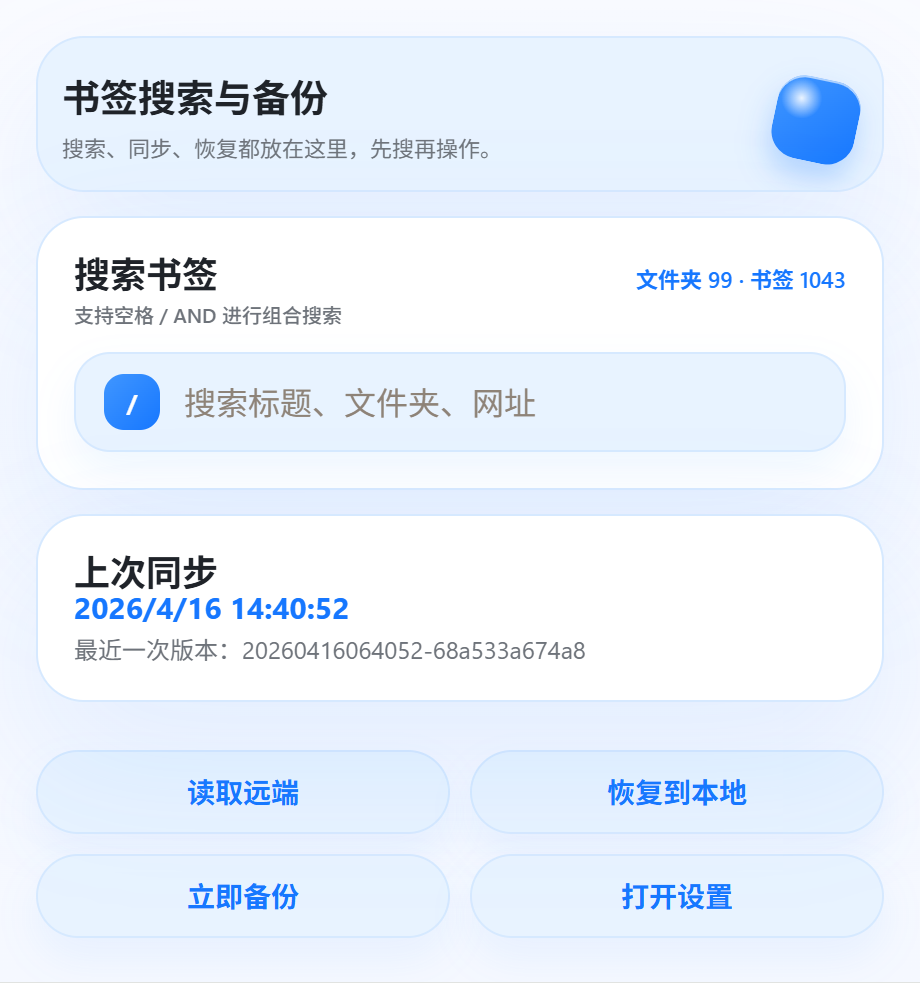
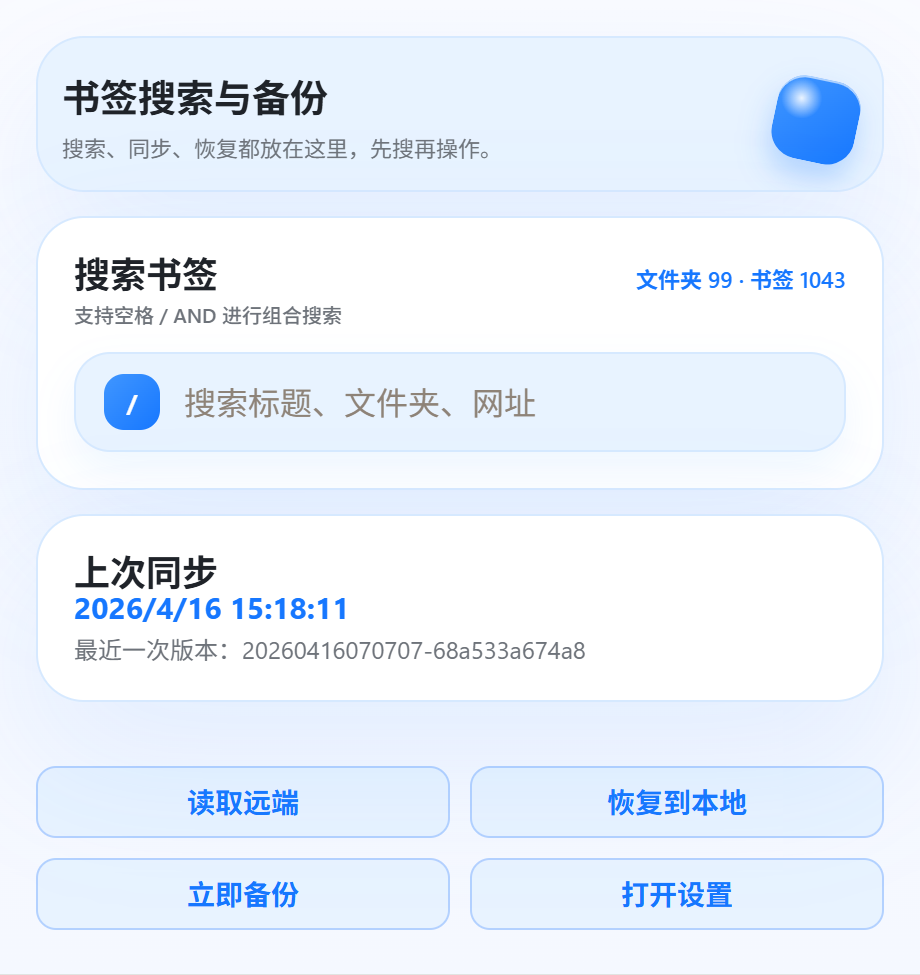
pref: 优化风格，更新图标

diff --git a/popup.css b/popup.css
@@ -309,44 +309,30 @@ body {
   display: grid;
   grid-template-columns: 1fr 1fr;
   gap: 10px;
-  margin-top: 24px;
+  margin-top: 32px;
 }
 
 button {
-  border: 0;
-  border-radius: 999px;
-  padding: 13px 16px;
+  border: 1px solid #B3D1FF;
+  border-radius: 10px;
+  padding: 10px 24px;
+  height: 36px;
   cursor: pointer;
   font: 600 14px/1 "Segoe UI", sans-serif;
-  transition: transform 140ms ease, box-shadow 140ms ease, opacity 140ms ease;
+  color: var(--accent);
+  background: #E8F3FF;
+  transition: background 140ms ease, transform 140ms ease, box-shadow 140ms ease, color 140ms ease, border-color 140ms ease;
 }
 
 button:hover {
   transform: translateY(-1px);
-}
-
-button.primary {
+  background: #348dff;
   color: white;
-  background: var(--accent-gradient);
-  box-shadow: 0 16px 24px rgba(22, 119, 255, 0.22);
+  border-color: #348dff;
 }
 
-button.ghost {
-  color: var(--accent);
-  background: var(--surface-soft);
-  border: 1px solid var(--surface-line);
-  box-shadow: var(--surface-shadow);
-  transition: background 140ms ease, color 140ms ease, border-color 140ms ease;
-}
-
-button.ghost:hover {
-  background: #2d88ff;
+button:active {
+  background: #348dff;
   color: white;
-  border-color: #2d88ff;
-}
-
-button.ghost:active {
-  background: #2d88ff;
-  color: white;
-  border-color: #2d88ff;
+  border-color: #348dff;
 }

diff --git a/popup.html b/popup.html
@@ -53,8 +53,8 @@
 
       <section class="action-bar">
         <button id="load-remote-btn" class="ghost">读取远端</button>
-        <button id="restore-btn" class="ghost">恢复到本地</button>
-        <button id="sync-btn" class="ghost">立即备份</button>
+        <button id="restore-btn" class="primary">恢复到本地</button>
+        <button id="sync-btn" class="primary">立即备份</button>
         <button id="options-btn" class="ghost">打开设置</button>
       </section>
     </main>
